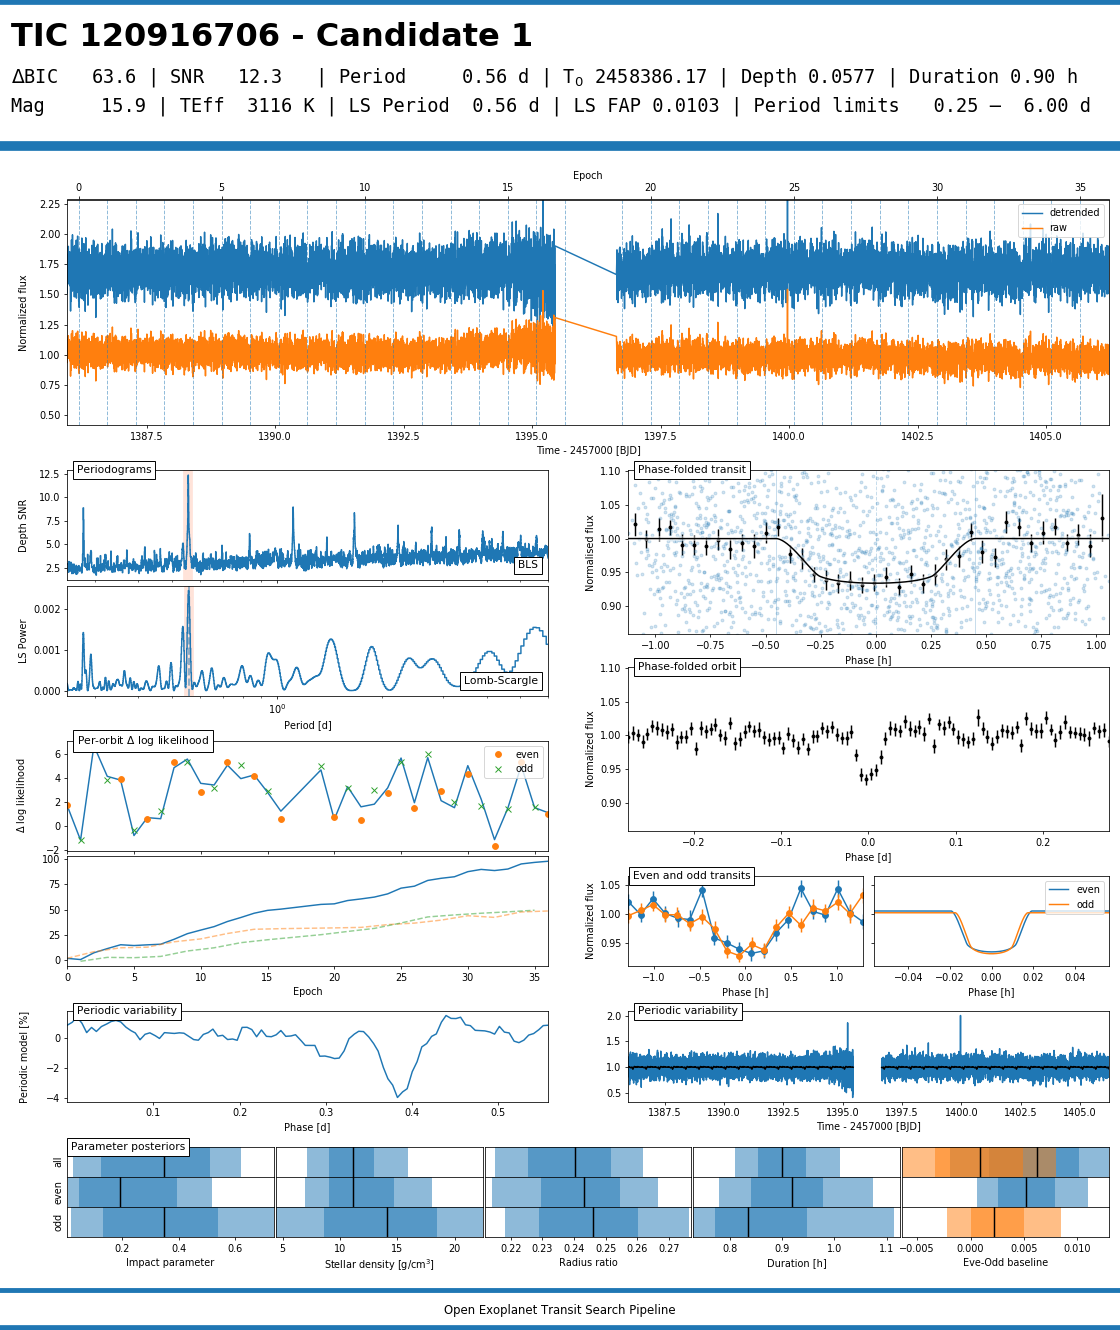
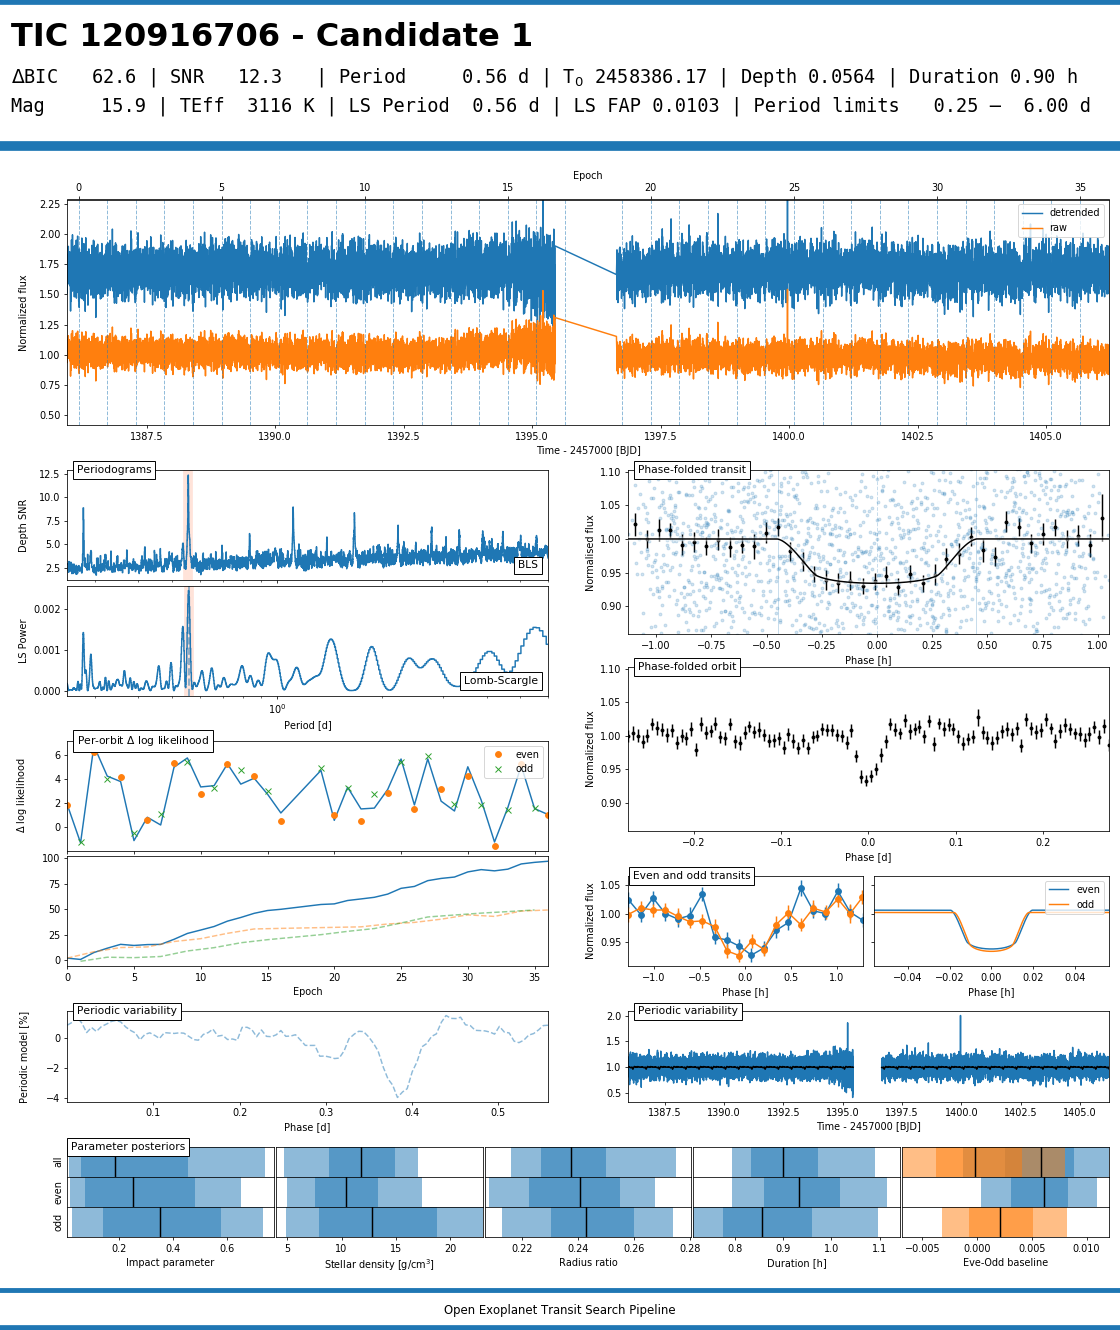
Updated EleanorTS.

diff --git a/src/eleanorts.py b/src/eleanorts.py
@@ -18,7 +18,7 @@ from pathlib import Path
 from typing import Union, List, Optional, Dict
 
 from astropy.io import fits
-from numpy import median, ndarray, load, concatenate
+from numpy import median, ndarray, load, concatenate, nanmedian
 
 from .tessts import TESSTS
 
@@ -71,14 +71,14 @@ class ELEANORTS(TESSTS):
             self.files.append(f)
             if self._h0 is None:
                 self._h0 = hdu_list[0].header
-                self.teff = self._h0['TEFF']
+                self.teff = self._h0.get('TEFF', 5000)
                 self.teff = self.teff if self.teff > 2500 else 5000
 
             sector = self._h0['SECTOR']
             self.sectors.append(sector)
 
             # what is the difference between CORR_FLUX/TIME and flux_flat/time_flat
-            flux = f['CORR_FLUX']
+            flux = f['CORR_FLUX'] / nanmedian(f['CORR_FLUX'])
             time = f['TIME'] + self.bjdrefi # TESS reference date
             ferr = f['FLUX_ERR']
 
@@ -87,9 +87,9 @@ class ELEANORTS(TESSTS):
 
             m = f['QUALITY'] == 0
 
-            times.append(time)    # <-- Why don't filter by quality flag as with fraw?
-            fluxes.append(flux)
-            ferrs.append(ferr)
+            times.append(time[m])    # <-- Why don't filter by quality flag as with fraw?
+            fluxes.append(flux[m])
+            ferrs.append(ferr[m])
             t2.append(traw[m])
             f2.append(fraw[m])
 
